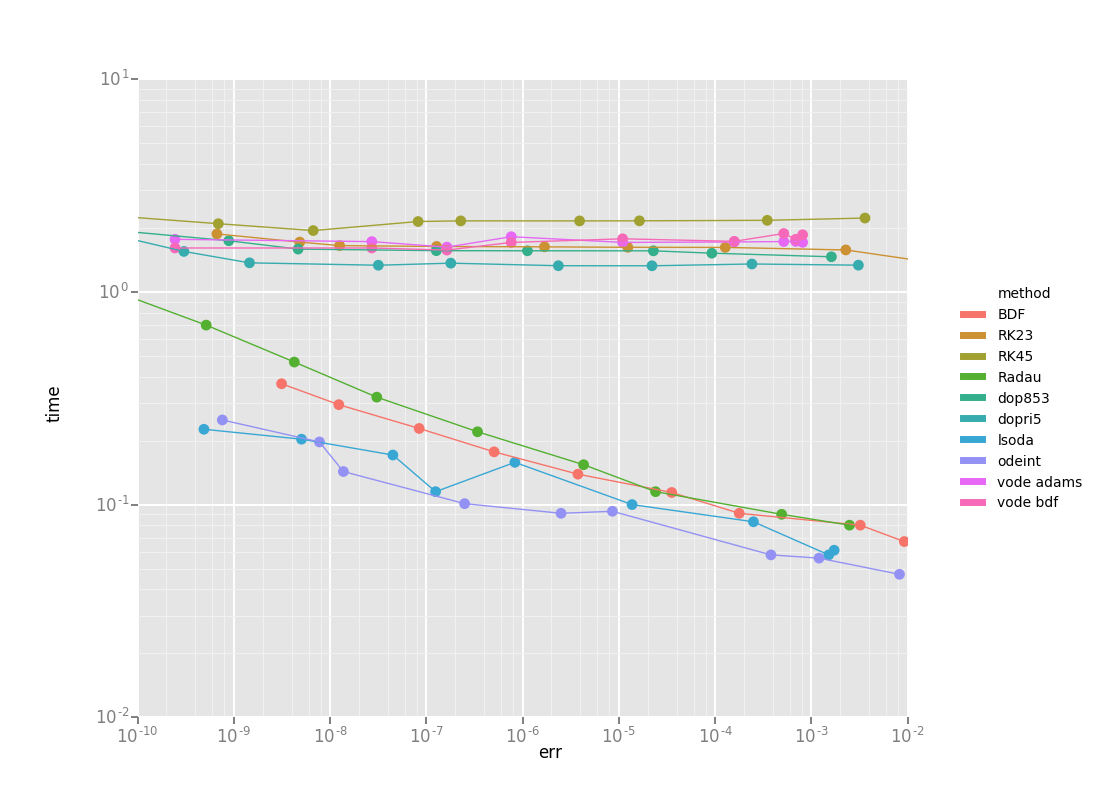
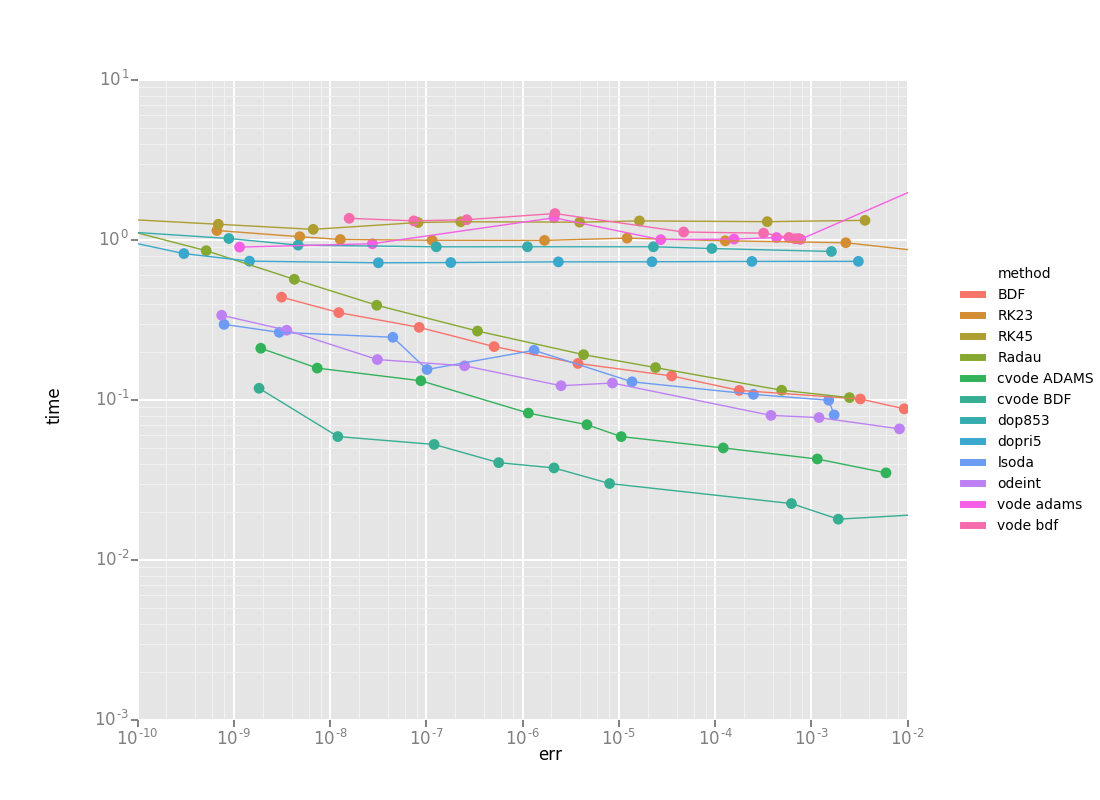
Add scikit odes solvers to performance test

diff --git a/performance_tests/egfngf_model.py b/performance_tests/egfngf_model.py
@@ -133,3 +133,47 @@ def f(t, y, k):
         0,
         0
     ]
+
+
+def f_odes(t, y, yout, k):
+    yout[:] = [
+        ((-1.0 * k[0] * y[0] * y[2])) + (1.0 * k[1] * y[3]),
+        ((-1.0 * k[2] * y[1] * y[4])) + (1.0 * k[3] * y[5]),
+        ((-1.0 * k[0] * y[0] * y[2])) + (1.0 * k[1] * y[3]),
+        ((1.0 * k[0] * y[0] * y[2]) + (-1.0 * k[1] * y[3])),
+        ((-1.0 * k[2] * y[1] * y[4]) + (1.0 * k[3] * y[5])),
+        ((1.0 * k[2] * y[1] * y[4]) + (-1.0 * k[3] * y[5])),
+        ((-1.0 * k[4] * y[3] * y[6] / (y[6] + k[5])) + (-1.0 * k[6] * y[5] * y[6] / (y[6] + k[7])) + (
+            1.0 * k[8] * y[9] * y[7] / (y[7] + k[9]))),
+        ((1.0 * k[4] * y[3] * y[6] / (y[6] + k[5])) + (1.0 * k[6] * y[5] * y[6] / (y[6] + k[7])) + (
+            -1.0 * k[8] * y[9] * y[7] / (y[7] + k[9]))),
+        ((-1.0 * k[26] * y[19] * y[8] / (y[8] + k[27]))),
+        ((1.0 * k[26] * y[19] * y[8] / (y[8] + k[27]))),
+        ((-1.0 * k[10] * y[7] * y[10] / (y[10] + k[11])) + (1.0 * k[12] * y[28] * y[11] / (y[11] + k[13]))),
+        ((1.0 * k[10] * y[7] * y[10] / (y[10] + k[11])) + (-1.0 * k[12] * y[28] * y[11] / (y[11] + k[13]))),
+        ((-1.0 * k[14] * y[11] * y[12] / (y[12] + k[15])) + (1.0 * k[44] * y[31] * y[13] / (y[13] + k[45])) + (
+            1.0 * k[34] * y[23] * y[13] / (y[13] + k[35]))),
+        ((1.0 * k[14] * y[11] * y[12] / (y[12] + k[15])) + (-1.0 * k[44] * y[31] * y[13] / (y[13] + k[45])) + (
+            -1.0 * k[34] * y[23] * y[13] / (y[13] + k[35]))),
+        ((-1.0 * k[42] * y[27] * y[14] / (y[14] + k[43])) + (1.0 * k[46] * y[31] * y[15] / (y[15] + k[47]))),
+        ((1.0 * k[42] * y[27] * y[14] / (y[14] + k[43])) + (-1.0 * k[46] * y[31] * y[15] / (y[15] + k[47]))),
+        ((-1.0 * k[16] * y[13] * y[16] / (y[16] + k[17])) + (-1.0 * k[18] * y[15] * y[16] / (y[16] + k[19])) + (
+            1.0 * k[20] * y[30] * y[17] / (y[17] + k[21]))),
+        ((1.0 * k[16] * y[13] * y[16] / (y[16] + k[17])) + (1.0 * k[18] * y[15] * y[16] / (y[16] + k[19])) + (
+            -1.0 * k[20] * y[30] * y[17] / (y[17] + k[21]))),
+        ((-1.0 * k[22] * y[17] * y[18] / (y[18] + k[23])) + (1.0 * k[24] * y[30] * y[19] / (y[19] + k[25]))),
+        ((1.0 * k[22] * y[17] * y[18] / (y[18] + k[23])) + (-1.0 * k[24] * y[30] * y[19] / (y[19] + k[25]))),
+        ((-1.0 * k[28] * y[3] * y[20] / (y[20] + k[29])) + (-1.0 * k[30] * y[11] * y[20] / (y[20] + k[31]))),
+        ((1.0 * k[28] * y[3] * y[20] / (y[20] + k[29])) + (1.0 * k[30] * y[11] * y[20] / (y[20] + k[31]))),
+        ((-1.0 * k[32] * y[21] * y[22] / (y[22] + k[33]))),
+        ((1.0 * k[32] * y[21] * y[22] / (y[22] + k[33]))),
+        ((-1.0 * k[36] * y[5] * y[24] / (y[24] + k[37]))),
+        ((1.0 * k[36] * y[5] * y[24] / (y[24] + k[37]))),
+        ((-1.0 * k[38] * y[25] * y[26] / (y[26] + k[39])) + (1.0 * k[40] * y[29] * y[27] / (y[27] + k[41]))),
+        ((1.0 * k[38] * y[25] * y[26] / (y[26] + k[39])) + (-1.0 * k[40] * y[29] * y[27] / (y[27] + k[41]))),
+        0,
+        0,
+        0,
+        0
+    ]
+    return 0

diff --git a/performance_tests/main.py b/performance_tests/main.py
@@ -5,6 +5,13 @@ from pandas import DataFrame
 from scipy.integrate import odeint, ode
 import ggplot as gg
 from scipy_ode import solve_ivp
+HAS_ODES = False
+try:
+    from scikits.odes.odeint import odeint as odes_odeint
+    from scikits.odes import ode as odes_ode
+    HAS_ODES = True
+except:
+    pass
 
 import egfngf_model
 
@@ -35,7 +42,7 @@ class scipy_ode_class:
 
     def __call__(self, model, rtol):
         solver = ode(model.f)
-        solver.set_integrator(self.solver, rtol=rtol)
+        solver.set_integrator(self.solver, method=self.method, rtol=rtol, max_step=10000)
         solver.set_initial_value(model.y0, 0.0)
         solver.set_f_params(model.k)
 
@@ -45,6 +52,22 @@ class scipy_ode_class:
                 result[i, :] = model.y0
                 continue
             result[i, :] = solver.integrate(t)
+
+        return result
+
+class scipy_odes_class(scipy_ode_class):
+
+    def __call__(self, model, rtol):
+        solver = odes_ode(self.solver, model.f_odes, old_api=False,
+                          lmm_type=self.method, rtol=rtol,
+                          user_data = model.k)
+        solution = solver.solve(model.ts, model.y0)
+        for i, t in enumerate(model.ts):
+            try:
+                result[i, :] = solution.values.y[i]
+            except:
+                # no valid solution anymore
+                result[i, :] = 0
 
         return result
 
@@ -72,6 +95,10 @@ methods = [
     scipy_solver_class("Radau"),
     scipy_solver_class("BDF"),
 ]
+if HAS_ODES:
+    methods += [scipy_odes_class("cvode BDF"),
+                scipy_odes_class("cvode ADAMS"),
+                ]
 
 rtols = 10 ** np.arange(-9.0, 0.0)
 
